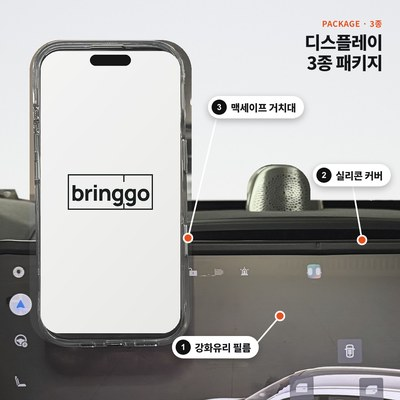
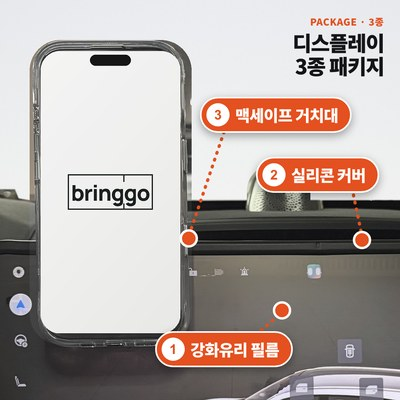
디스플레이 3종 패키지 대표 이미지: 라벨·점선 크게(주황 라벨, 굵은 점선)

diff --git a/shop/config.js b/shop/config.js
@@ -8,6 +8,6 @@ window.SHEET_URL = 'https://docs.google.com/spreadsheets/d/19crq_-szVqdJRlVK12RK
 window.KAKAO_CHANNEL_URL = 'https://pf.kakao.com/_vtvxiX/chat';
 
 // 상품 사진 버전 (사진을 교체하면 숫자를 올려 주세요)
-window.ASSET_V = '10312800';
+window.ASSET_V = '10312900';
 // 토스페이먼츠 클라이언트 키 (공개용 · test_ck_… 또는 live_ck_…). 비어 있으면 카드결제 숨김. 시크릿 키는 절대 여기 넣지 말 것 → Supabase Edge Function Secrets
 window.TOSS_CLIENT_KEY = '';
